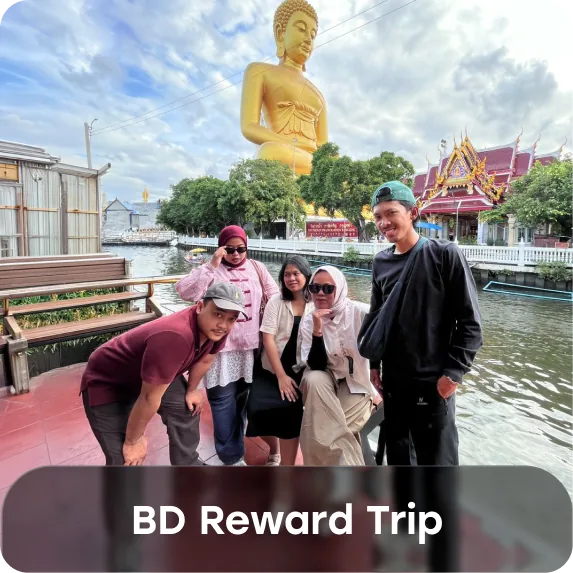
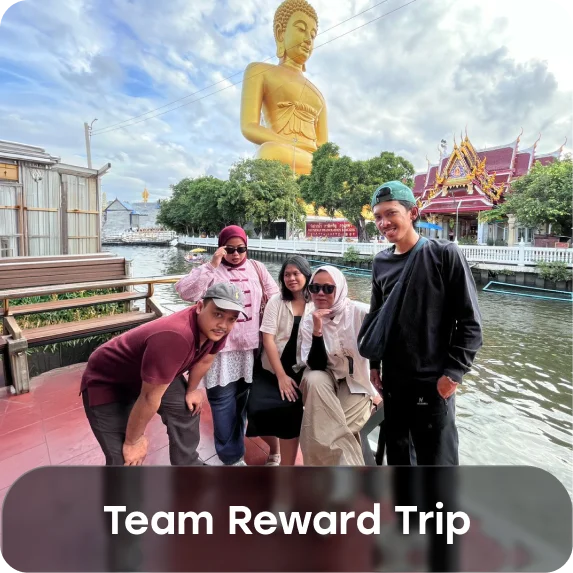
fix: feedback

Changed region(s): [[0.178, 0.8604, 0.8307, 0.9494]]

diff --git a/resources/css/app.css b/resources/css/app.css
@@ -738,7 +738,7 @@ h1 span {
 
 .people-grid {
     display: grid;
-    grid-template-columns: repeat(3, minmax(0, 1fr));
+    grid-template-columns: repeat(4, minmax(0, 1fr));
     gap: 18px;
     margin-top: 64px;
 }

diff --git a/resources/views/welcome.blade.php b/resources/views/welcome.blade.php
@@ -129,8 +129,6 @@
                 <p class="section-intro">Discover the people and stories that bring our culture to life.</p>
                 <div class="people-grid">
                     @foreach ([
-                            ['Fia', 'Finance, Accounting & Tax Manager', 'Proud to be part of HSB Investasi, where I grow and make an impact every day.'],
-                            ['Tasya', 'Senior Legal & Compliance Officer', 'I’m proud to protect HSB’s reputation while helping the business move forward with integrity.'],
                             ['Cio', 'Product Manager', 'At HSB, I value the trust to take full ownership, from identifying problems to launching solutions.'],
                             ['Iqbal', 'Performance Marketing Specialist', 'Working at HSB provides tremendous opportunities for growth.'],
                             ['Raden', 'IT Senior Officer', 'HSB has opened new horizons for me in technology.'],
@@ -177,7 +175,7 @@
                         ['slug' => 'sport', 'label' => 'Sport Day'],
                         ['slug' => 'birthday', 'label' => 'Birthday Celebration'],
                         ['slug' => 'special', 'label' => 'Special Day Celebration'],
-                        ['slug' => 'reward-trip', 'label' => 'BD Reward Trip'],
+                        ['slug' => 'reward-trip', 'label' => 'Team Reward Trip'],
                     ];
                     $lifeImageIds = ['3498', '3499', '3500', '3501'];
                 @endphp
@@ -198,7 +196,7 @@
                             @endif>
                             @foreach ($lifeImageIds as $imageId)
                             @php($lifeImagePath = 'images/home/slider/' . $category['slug'] . '/Frame 100001' . $imageId . '.webp')
-                            <img src="{{ asset($lifeImagePath) }}?v={{ filemtime(public_path($lifeImagePath)) }}"
+                            <img src="{{ asset($lifeImagePath) }}?v={{ substr(hash_file('sha256', public_path($lifeImagePath)), 0, 12) }}"
                                 alt="{{ $category['label'] }} at HSB Investasi, photo {{ $loop->iteration }}"
                                 width="573" height="573" loading="lazy" decoding="async">
                             @endforeach
